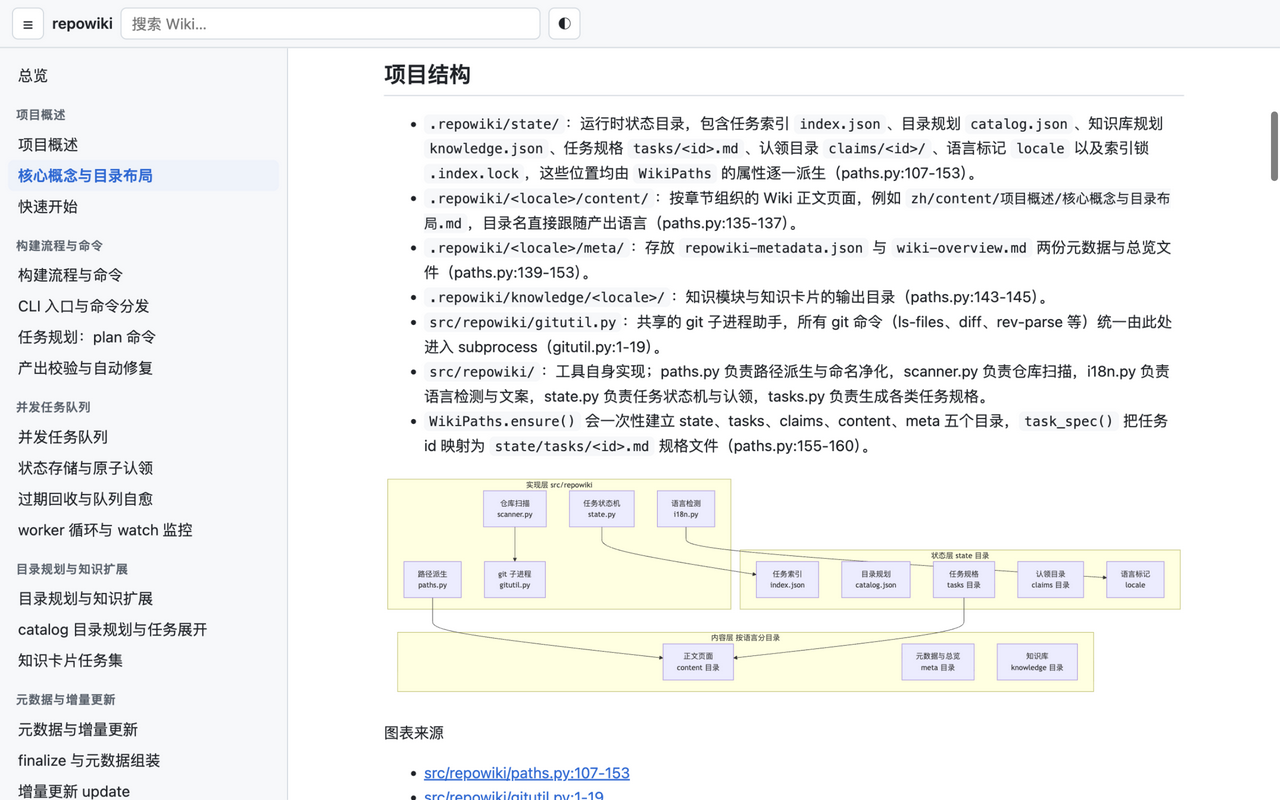
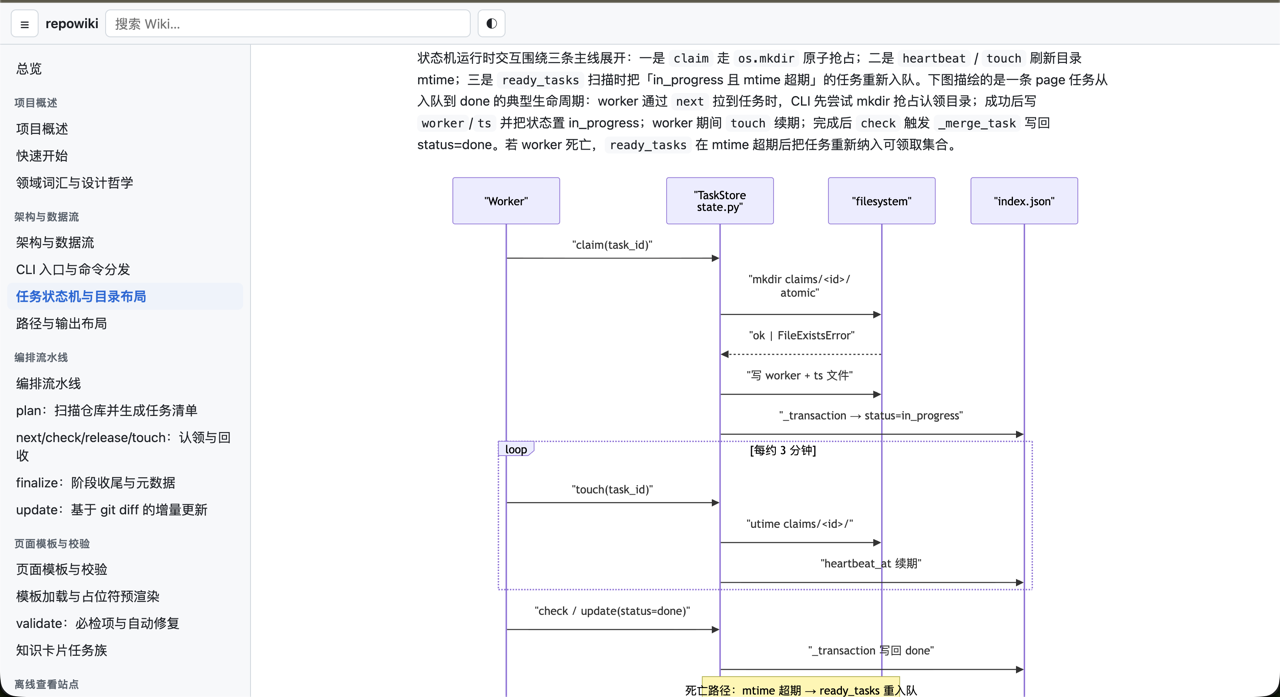
docs(readme): refresh site preview screenshots for the redesigned viewer

diff --git a/README.md b/README.md
@@ -104,7 +104,8 @@ myrepo/.repowiki/
 
 - markdown + mermaid 全部渲染，引用的源码行区间直接内嵌，点击 `file://` 引用在页内
   弹层查看带行号高亮的源码——无需 IDE、无需网络，发给同事一个文件即可浏览整个 wiki；
-- 内置侧边栏导航、全文搜索、暗色/浅色主题（跟随系统 + 手动切换）；
+- 侧边栏章节导航（可折叠）+ 当前页目录（scroll-spy 跟随高亮）、全文搜索（命中词高亮）、
+  代码块一键复制、prev/next 翻页、阅读进度条、暗色/浅色主题（跟随系统 + 手动切换）；
 - 完全离线：markdown/mermaid 渲染库（marked/mermaid，MIT）已内嵌进文件本身；
 - 幂等可重跑：finalize、update 或手动改了页面之后随时重新执行 `repowiki site` 重建；
 - 执行过 `repowiki clean` 也能重建（此时章节顺序退化为目录序，内容不受影响）。
